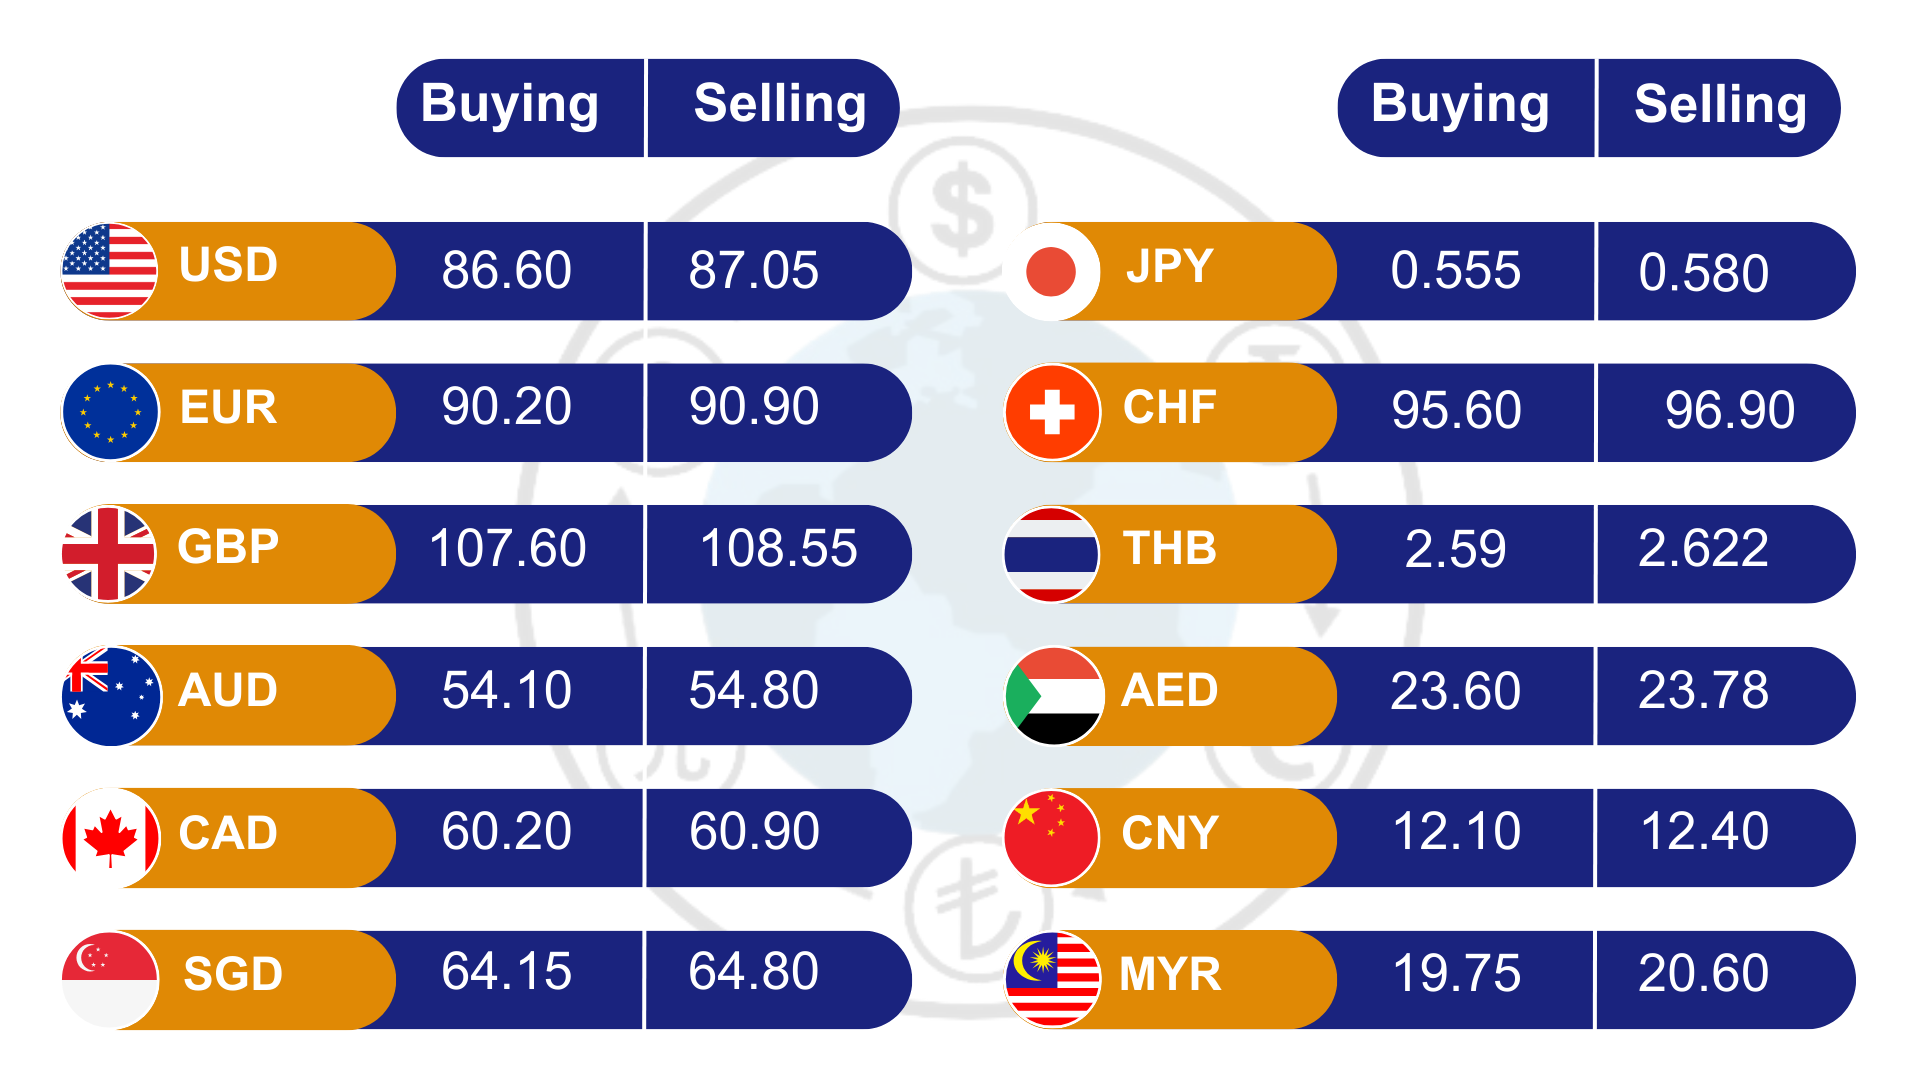
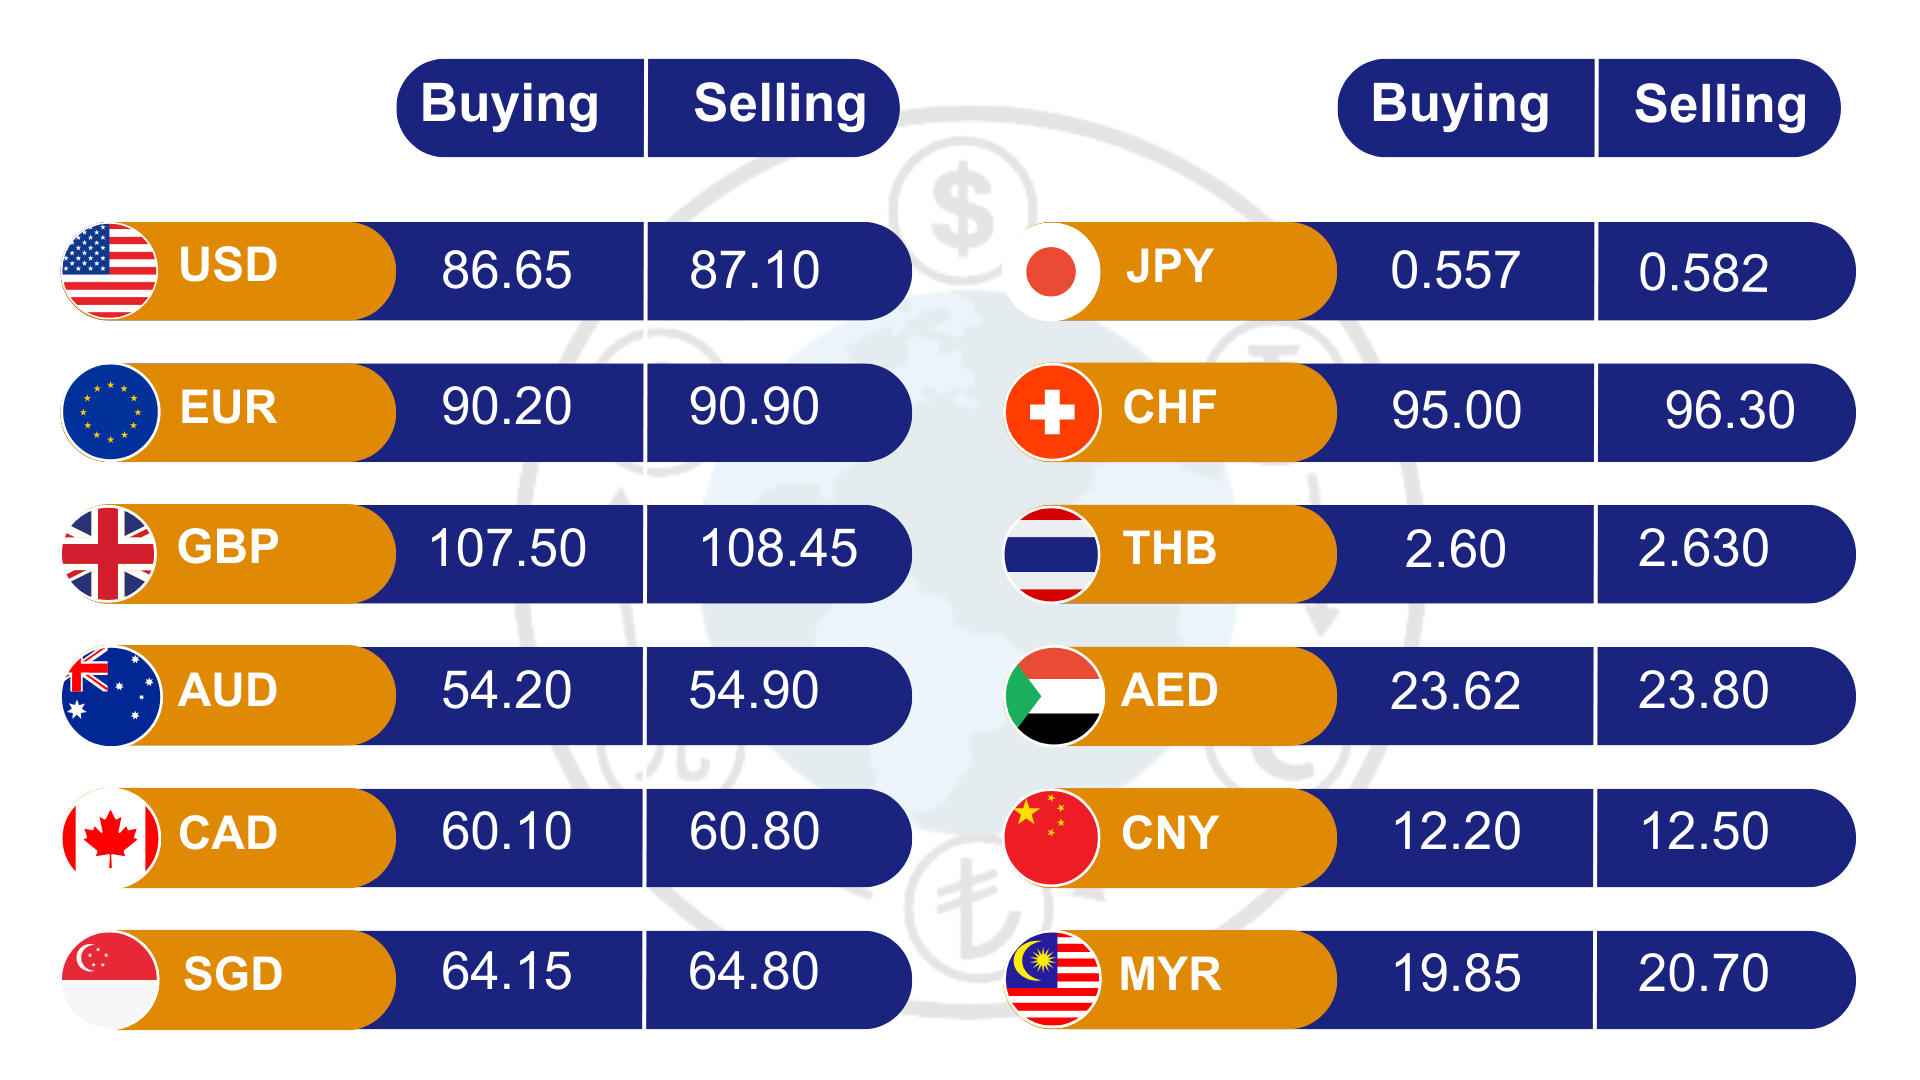
rates

diff --git a/app/components/Form.js b/app/components/Form.js
@@ -16,21 +16,21 @@ export default function FormTabs() {
   const [city, setCity] = useState("");
 
   const exchangeRates = {
-    USD: { buyRate: 86.6, sellRate: 87.05, symbol: "$" },
+    USD: { buyRate: 86.65, sellRate: 87.1, symbol: "$" },
     EUR: { buyRate: 90.2, sellRate: 90.9, symbol: "€" },
-    GBP: { buyRate: 107.6, sellRate: 108.55, symbol: "£" },
-    AUD: { buyRate: 54.1, sellRate: 54.8, symbol: "A$" },
-    CAD: { buyRate: 60.2, sellRate: 60.9, symbol: "C$" },
+    GBP: { buyRate: 107.5, sellRate: 108.45, symbol: "£" },
+    AUD: { buyRate: 54.2, sellRate: 54.9, symbol: "A$" },
+    CAD: { buyRate: 60.1, sellRate: 60.8, symbol: "C$" },
     NZD: { buyRate: 48.4, sellRate: 49.7, symbol: "$" },
-    AED: { buyRate: 23.6, sellRate: 23.78, symbol: "د.إ" },
+    AED: { buyRate: 23.62, sellRate: 23.8, symbol: "د.إ" },
     SGD: { buyRate: 64.15, sellRate: 64.8, symbol: "S$" },
-    THB: { buyRate: 2.59, sellRate: 2.622, symbol: "฿" },
-    CHF: { buyRate: 95.6, sellRate: 96.9, symbol: "CHF" },
-    JPY: { buyRate: 0.555, sellRate: 0.58, symbol: "¥" },
+    THB: { buyRate: 2.6, sellRate: 2.63, symbol: "฿" },
+    CHF: { buyRate: 95.0, sellRate: 96.3, symbol: "CHF" },
+    JPY: { buyRate: 0.557, sellRate: 0.582, symbol: "¥" },
     HKD: { buyRate: 11.25, sellRate: 11.7, symbol: "HK$" },
-    MYR: { buyRate: 19.75, sellRate: 20.6, symbol: "RM" },
-    SAR: { buyRate: 22.7, sellRate: 23.5, symbol: "﷼" },
-    CNY: { buyRate: 12.1, sellRate: 12.4, symbol: "¥" },
+    MYR: { buyRate: 19.85, sellRate: 20.7, symbol: "RM" },
+    SAR: { buyRate: 22.75, sellRate: 23.55, symbol: "﷼" },
+    CNY: { buyRate: 12.2, sellRate: 12.5, symbol: "¥" },
     VND: { buyRate: 0.0035, sellRate: 0.00384, symbol: "₫" },
     IDR: { buyRate: 0.00534, sellRate: 0.00592, symbol: "Rp" },
   };
